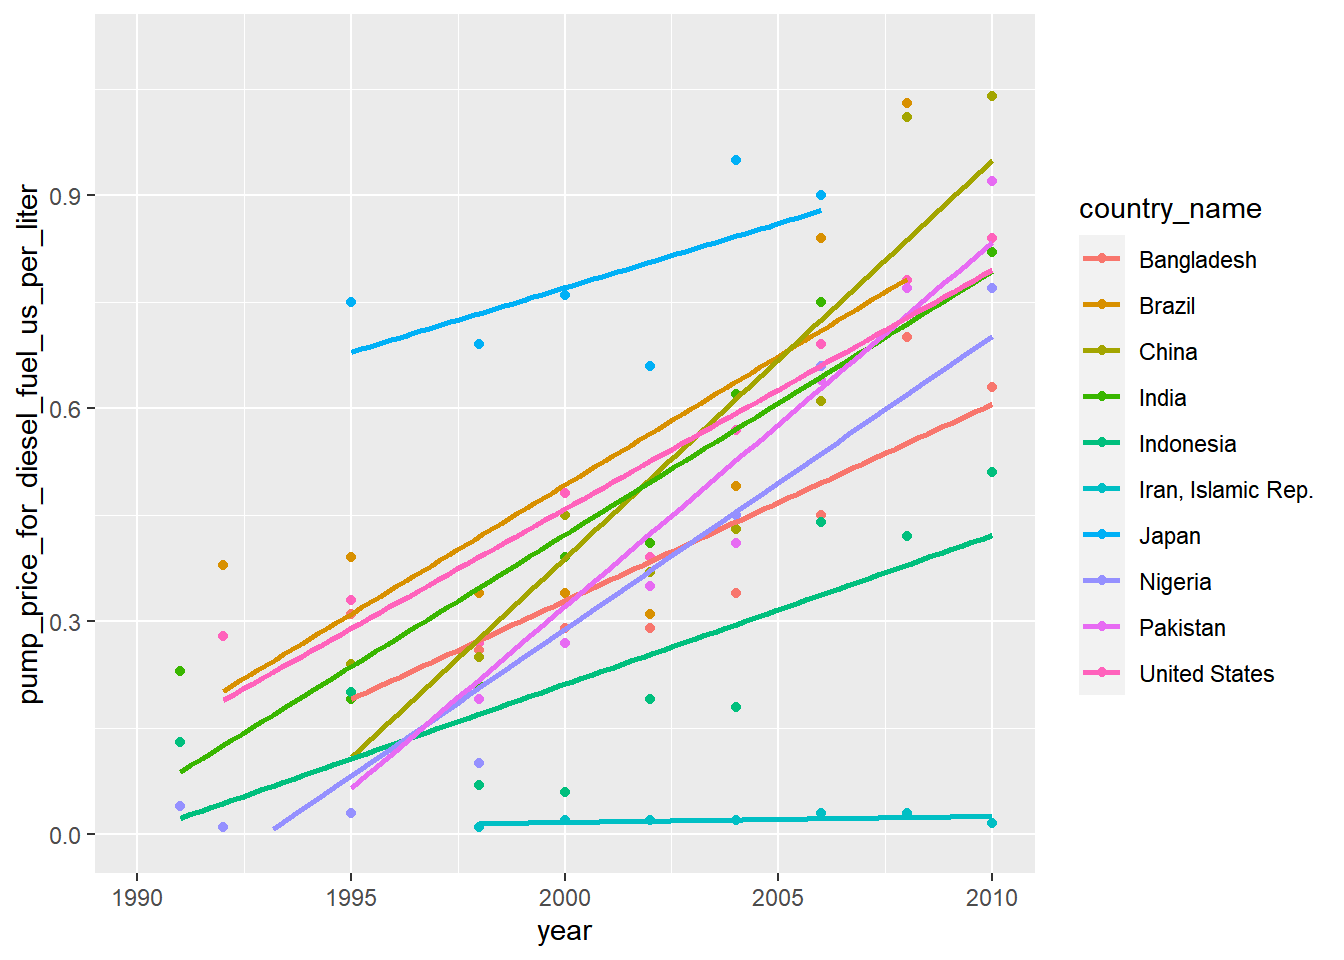
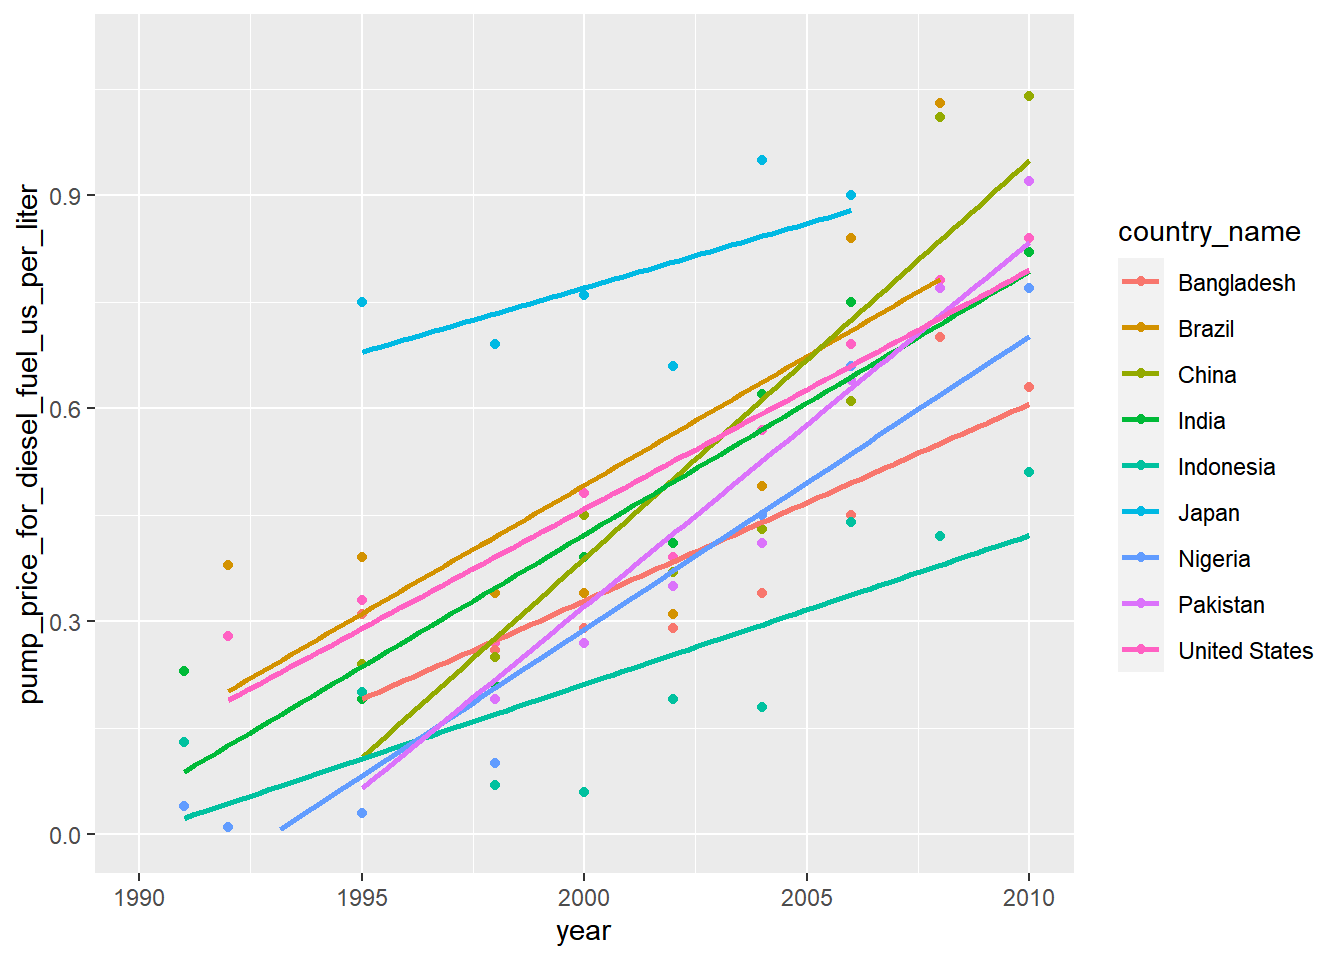
4545

diff --git a/content/post/2021-06-16-assignment-a05-exploratory-data-analysis-2/index.html b/content/post/2021-06-16-assignment-a05-exploratory-data-analysis-2/index.html
@@ -16,7 +16,7 @@ tags: []
 <hr />
 <div id="import-data-energy-mining" class="section level2">
 <h2>Import Data: Energy &amp; Mining</h2>
-<p>This post consists of exploratory analysis of a dataset provided by the world bank. It includes 53 variable and 571 observations that represent many countries around the world between 1960 to 2017. Variables include varieties of parameters related to welfare and sustainability in examined countries. These variables include but not limited to access and consumption of different types of energies from different sources.</p>
+<p>This post consists of exploratory analysis of a dataset provided by the world bank. It includes 53 variable and 513 observations that represent many countries around the world between 1960 to 2017. Variables include varieties of parameters related to welfare and sustainability in examined countries. These variables include but not limited to access and consumption of different types of energies from different sources.</p>
 <p>This dataset could be find in the below link:</p>
 <p>(<a href="https://github.com/ZeningQu/World-Bank-Data-by-Indicators/blob/master/engergy-and-mining/energy-and-mining.csv" class="uri">https://github.com/ZeningQu/World-Bank-Data-by-Indicators/blob/master/engergy-and-mining/energy-and-mining.csv</a>)</p>
 </div>
@@ -32,8 +32,8 @@ mutate(pump_price_for_diesel_fuel_us_per_liter=replace(pump_price_for_diesel_fue
   ggplot(aes(year, pump_price_for_diesel_fuel_us_per_liter, color=country_name))+ geom_point()+geom_smooth(method = &quot;lm&quot;,se=FALSE)+
   xlim(1990, 2010)+ylim(0, 1.1)</code></pre>
 <pre><code>## `geom_smooth()` using formula &#39;y ~ x&#39;</code></pre>
-<pre><code>## Warning: Removed 490 rows containing non-finite values (stat_smooth).</code></pre>
-<pre><code>## Warning: Removed 490 rows containing missing values (geom_point).</code></pre>
+<pre><code>## Warning: Removed 439 rows containing non-finite values (stat_smooth).</code></pre>
+<pre><code>## Warning: Removed 439 rows containing missing values (geom_point).</code></pre>
 <pre><code>## Warning: Removed 9 rows containing missing values (geom_smooth).</code></pre>
 <p><img src="{{< blogdown/postref >}}index_files/figure-html/unnamed-chunk-3-1.png" width="672" /></p>
 </div>
@@ -44,5 +44,34 @@ mutate(pump_price_for_diesel_fuel_us_per_liter=replace(pump_price_for_diesel_fue
 </ol>
 <div id="captioned-visualizations-that-convey-key-insights-gained-during-your-analysis" class="section level2">
 <h2>captioned visualizations that convey key insights gained during your analysis</h2>
+<p>ggplot(gapminder, aes(gdpPercap, lifeExp, size = pop, colour = country)) +
+geom_point(alpha = 0.7, show.legend = FALSE) +</p>
+<p>scale_colour_manual(values = country_colors) +
+scale_size(range = c(2, 12)) +
+scale_x_log10() +
+facet_wrap(~continent) +</p>
+<p># Here comes the gganimate specific bits
+labs(title = ‘Year: {frame_time}’, x = ‘GDP per capita’, y = ‘life expectancy’) +
+transition_time(year) +
+ease_aes(‘linear’)</p>
+<pre><code>## 
+## -- Column specification --------------------------------------------------------
+## cols(
+##   .default = col_double(),
+##   `Country Name` = col_character(),
+##   `Country Code` = col_character()
+## )
+## i Use `spec()` for the full column specifications.</code></pre>
+<pre><code>## Warning: Removed 17 rows containing missing values (geom_point).
+
+## Warning: Removed 17 rows containing missing values (geom_point).
+
+## Warning: Removed 17 rows containing missing values (geom_point).
+
+## Warning: Removed 17 rows containing missing values (geom_point).
+
+## Warning: Removed 17 rows containing missing values (geom_point).</code></pre>
+<p><img src="{{< blogdown/postref >}}index_files/figure-html/unnamed-chunk-4-1.gif" /><!-- --></p>
+<p><img src="1.gif" width="98%" /></p>
 </div>
 </div>
